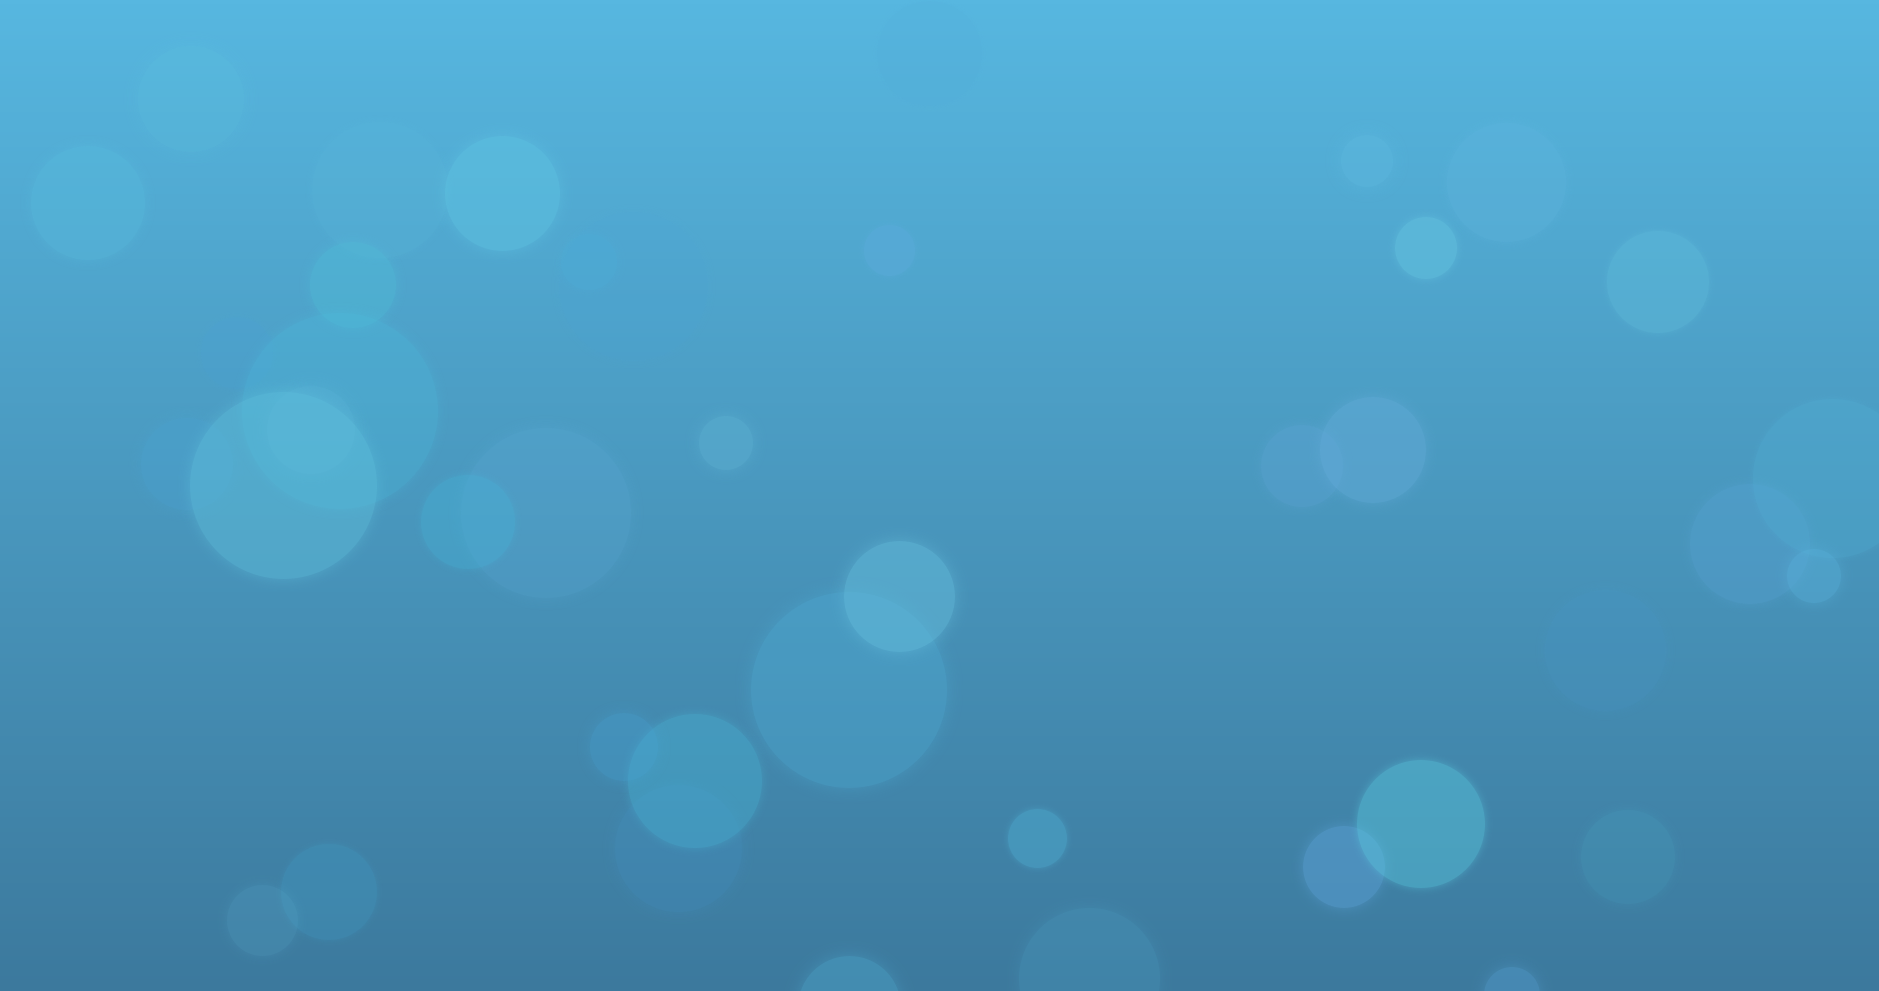
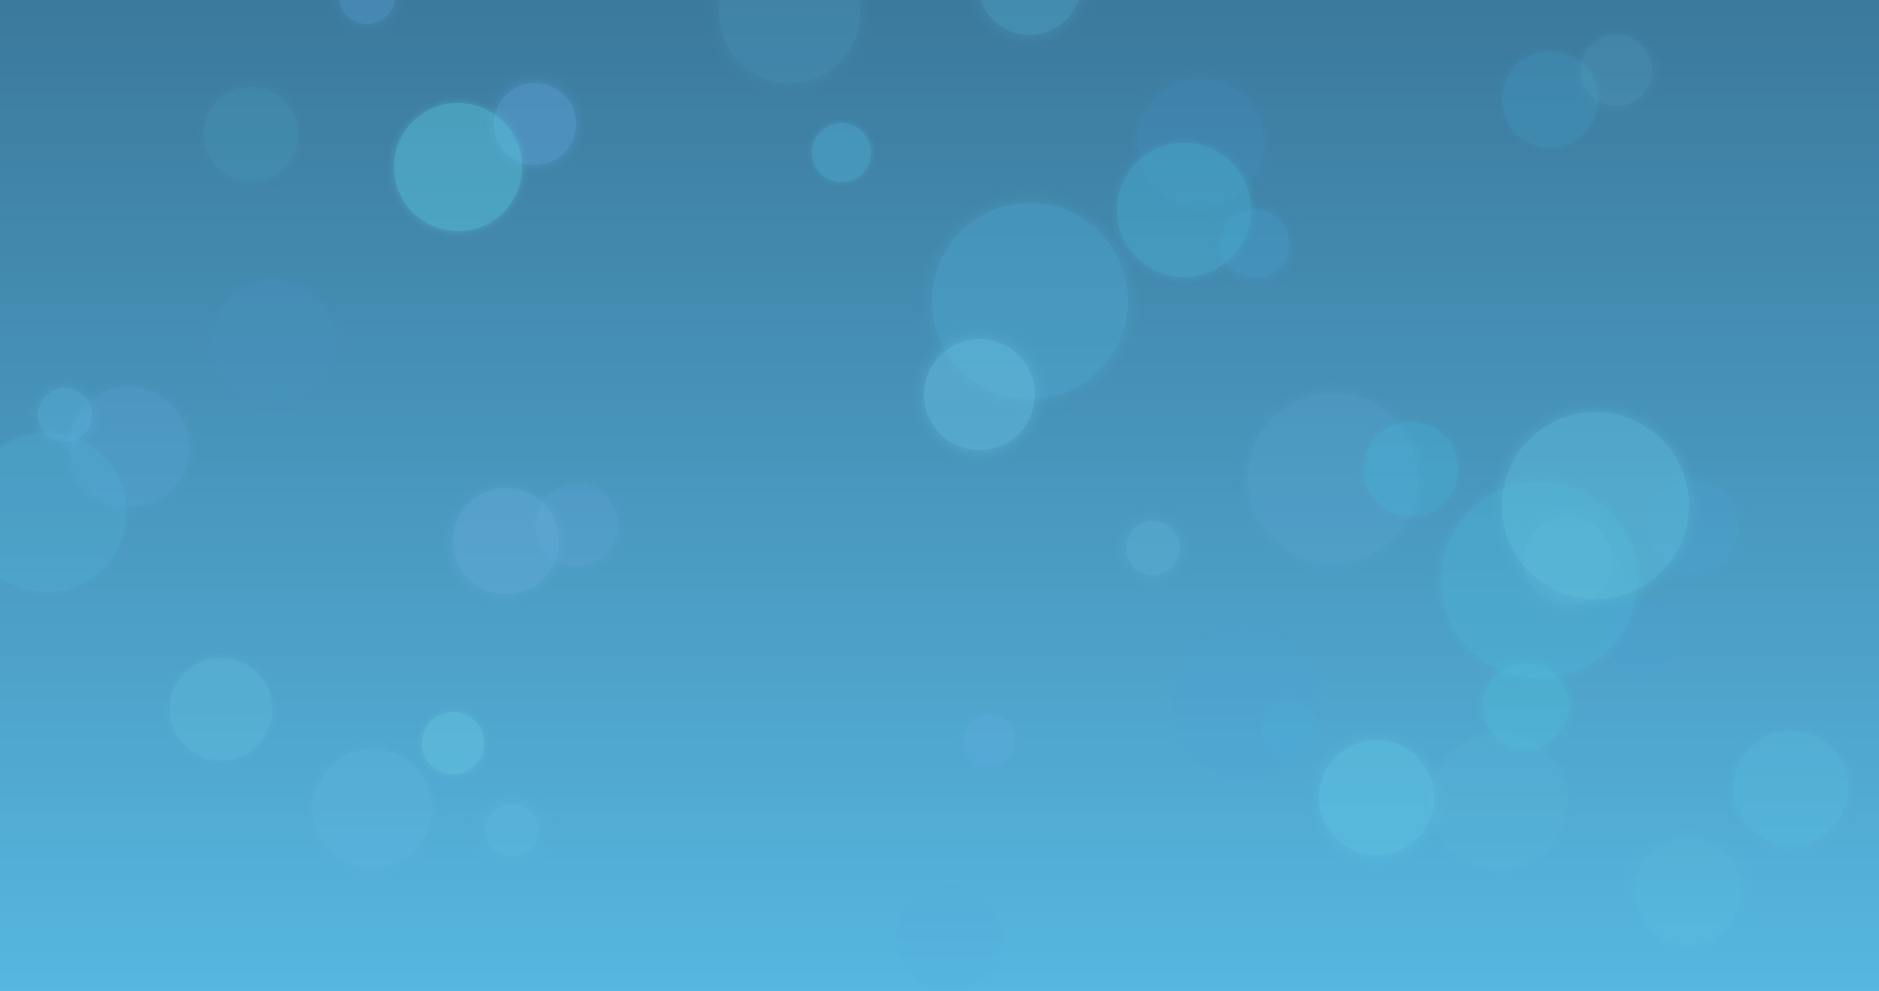
final style. next step--> add content to the side column of the homepage.

diff --git a/code/templates/index.html b/code/templates/index.html
@@ -11,9 +11,9 @@
     {% if g.user %}
     <section>
     	<div class = "content" id="premium">
-	        <div style= "border-style: solid; border-width: 3px; border-color: #189cdf;margin-right: 12px;" id="map_premium"></div>
-            <div style= "border-style: solid; border-bottom: 0px; border-width: 3px; border-color: #189cdf; margin-left:0; margin-right:4px; width: 40%; height: 40px; overflow:auto; background-image: linear-gradient(#eee,#fff); padding: 10px;"><b>List of nearest stations : <br></b></div>
-	        <div style= "border-style: solid; border-width: 3px; border-color: #189cdf; margin-left:0; margin-right:4px; width: 40%; height: 460px; overflow:auto; background-image: linear-gradient(#eee,#fff); padding: 10px;" id="nearest_stalls"></div>
+	        <div style= "border-style: solid; border-width: 1px; border-color: #189cdf;margin-right: 12px;" id="map_premium"></div>
+            <div style= "border-style: solid; border-bottom: 0px; border-width: 1px; border-color: #189cdf; margin-left:0; margin-right:4px; width: 40%; height: 40px; overflow:auto; background-image: linear-gradient(#eee,#fff); padding: 10px;"><b>List of nearest stations : <br></b></div>
+	        <div style= "border-style: solid; border-width: 1px; border-color: #189cdf; margin-left:0; margin-right:4px; width: 40%; height: 460px; overflow:auto; background-image: linear-gradient(#eee,#fff); padding: 10px;" id="nearest_stalls"></div>
         </div>
         <script src="{{url_for('static', filename = 'stalls_free.geojson')}}" type="text/javascript"></script>
         <script src="https://ajax.aspnetcdn.com/ajax/jQuery/jquery-3.4.0.min.js"></script>
@@ -22,13 +22,13 @@
         </section>
     {% else %}
     <section class="column">
-        <div class = "content" style= "border-style: solid; border-width: 3px; border-color: #189cdf;margin-right: 12px;" id="map"></div>
+        <div class = "content" style= "border-style: solid; border-width: 1px; border-color: #189cdf;margin-right: 12px;" id="map"></div>
         <script src="{{url_for('static', filename = 'var_stat.geojson')}}" type="text/javascript"></script>
         <script src="{{url_for('static', filename = 'map.js')}}" type="text/javascript"></script>
         </div><br><br><br><br>
         </section>
 
-        <div class="columnside" style="border-style: solid; border-width: 3px; border-color: #189cdf; background-image: linear-gradient(#eee,#fff); max-height: 100%; margin-left: 0;"><a>What is bike4share<br><br>bike for share is a platform....</a><br><br><br><br><br><br><br><br><br><br><br><br><br><br><br><br><br><br><br><br><br><br><br><br><br><br><br><br><br><br><br>
+        <div class="columnside" style="border-style: solid; border-width: 1px; border-color: #189cdf; background-image: linear-gradient(#eee,#fff); height: 500px; margin-left: 0;"><a>What is bike4share<br><br>bike for share is a platform....</a>
             </div><br><br><br>
 
 

diff --git a/code/templates/auth/set_new_password.html b/code/templates/auth/set_new_password.html
@@ -1,17 +1,22 @@
 {% extends 'base.html' %}
 
 {% block header %}
-  <h1>{% block title %}Set New Password{% endblock %}</h1>
+  <h1 class="fadeIn fourth" style="text-align: center">{% block title %}Set New Password{% endblock %}</h1>
 {% endblock %}
 
 {% block content %}
+
+<link rel="stylesheet" href="{{ url_for('static', filename='style3.css') }}">
+<div class="wrapper fadeInDown">
+  <div id="formContent">
   <form method="post">
-    <label for="given_code">Insert the code received by E-mail</label>
-    <input name="given_code" id="given_code" required>
-    <label for="username">Username</label>
-    <input name="username" id="username" required>
-    <label for="new_password">New Password</label>
-    <input type="password" name="new_password" id="new_password" required>
-    <input type="submit" value="Set New Password">
+    <br><label for="given_code">Insert the code received by E-mail</label><br><br>
+    <input class="fadeIn first"  name="given_code" id="given_code" required><br><br>
+    <label for="username">Username</label><br><br>
+    <input class="fadeIn second"  name="username" id="username" required><br><br>
+    <label for="new_password">New Password</label><br><br>
+    <input class="fadeIn third"  type="password" name="new_password" id="new_password" required><br><br>
+    <input class="fadeIn fourth" type="submit" value="Set New Password"><br>
   </form>
+  </div>
 {% endblock %}

diff --git a/code/templates/auth/ForgotPassword.html b/code/templates/auth/ForgotPassword.html
@@ -1,15 +1,19 @@
 {% extends 'base.html' %}
 
 {% block header %}
-  <h1>{% block title %}Forgot Password{% endblock %}</h1>
+  <h1 class="fadeIn fourth" style="text-align: center">{% block title %}Forgot Password{% endblock %}</h1>
 {% endblock %}
 
 {% block content %}
+
+<link rel="stylesheet" href="{{ url_for('static', filename='style3.css') }}">
+<div class="wrapper fadeInDown">
+  <div id="formContent">
   <form method="post">
-  	    <label for="username">Username</label>
-    	<input name="username" id="username" required>
-       	<label for="email">E-mail</label>
-       	<input type="email" name="user_mail" id="user_mail" required>
-       	<input type="submit" value="Password Recovery">
+  	    <br><label for="username">Username</label><br><br>
+    	<input class="fadeIn first"  name="username" id="username" required><br><br>
+       	<label for="email">E-mail</label><br><br>
+       	<input class="fadeIn second"  type="email" name="user_mail" id="user_mail" required><br><br>
+       	<input class="fadeIn third" type="submit" value="Password Recovery"><br>
   </form>
 {% endblock %}

diff --git a/code/templates/base.html b/code/templates/base.html
@@ -22,7 +22,7 @@
     {% endif %}
   </ul>
 </nav><br>
-<body style="background-color: #293133;background-size: cover">
+<body style="background-image: url(/static/back.png); background-size: cover;">
 <link rel="stylesheet" href="https://unpkg.com/leaflet@1.4.0/dist/leaflet.css"
       integrity="sha512-puBpdR0798OZvTTbP4A8Ix/l+A4dHDD0DGqYW6RQ+9jxkRFclaxxQb/SJAWZfWAkuyeQUytO7+7N4QKrDh+drA=="
       crossorigin=""/>
@@ -45,4 +45,10 @@
 </section>
 
 </body>
+<div style="float: left; width: 100%;height: 1px;">
+<nav style="background-color:transparent">
+  <h1><a href="https://www.polimi.it"><img style="display:block; margin-left: auto; margin-right: auto; width:10%; height: 10%;" class="resize" src="/static/polimi.png" /></a></h1>
+  
+</nav>
+</div>
 

diff --git a/code/templates/auth/login.html b/code/templates/auth/login.html
@@ -18,9 +18,9 @@
     <!-- Login Form -->
     <form>
      <br><label for="username">Username</label><br><br>
-     <input name="username" class="fadeIn second" id="username" placeholder="username" required><br><br>
+     <input name="username" class="fadeIn second" id="username" required><br><br>
      <label for="password">Password</label><br><br>
-     <input type="password" class="fadeIn third" name="password" id="password" placeholder="password" required><br><br>
+     <input type="password" class="fadeIn third" name="password" id="password" required><br><br>
      <input type="submit" class="fadeIn fourht" value="Log In">
      </form>
 

diff --git a/code/static/style.css b/code/static/style.css
@@ -1,6 +1,6 @@
 html { font-family: sans-serif; background-color: linear-gradient(#fff, #eee);}
 body { background-color: #56baed; }
-h1 { font-family: serif; color: #377ba8; margin: 1rem 0; }
+h1 { font-family: serif; color: #eee; margin: 1rem 0; }
 a { color: #377ba8; }
 nav { background: lightgray; display: flex; align-items: center; padding: 0 0.5rem; }
 nav h1 { flex: auto; margin: 0; }
@@ -67,7 +67,6 @@ input[type=submit] { align-self: start; min-width: 10em; }
 .columnside {
   float: right;
   width: 20%;
-  height: 100%;
 
   
 }

diff --git a/code/templates/statistics.html b/code/templates/statistics.html
@@ -2,14 +2,14 @@
 
 
 {% block header %}
-<h1>{% block title %}Statistics{% endblock %}</h1>
+<h1 style="text-align: center">{% block title %}Statistics{% endblock %}</h1>
 {% endblock %}
 
 {% block content %}
 	{% if g.user[4] == 't' %}
-	<section style="background-color: #293133; overflow:auto;">
+	<section style="background-color: #eee; overflow:auto;">
 	    {{ bokS|indent(4)|safe }}
-	</section>
+	</section><br>
 	{% else %}
 		{% if g.user[4] == 'u' %}
 		    <p>

diff --git a/code/static/style3.css b/code/static/style3.css
@@ -9,7 +9,7 @@ body {
   font-family: "Poppins", sans-serif;
   height: 100vh;
 }
-
+h1 { font-family: serif; color: #eee; margin: 1rem 0; }
 a { color: #377ba8; }
 
 h2 {
